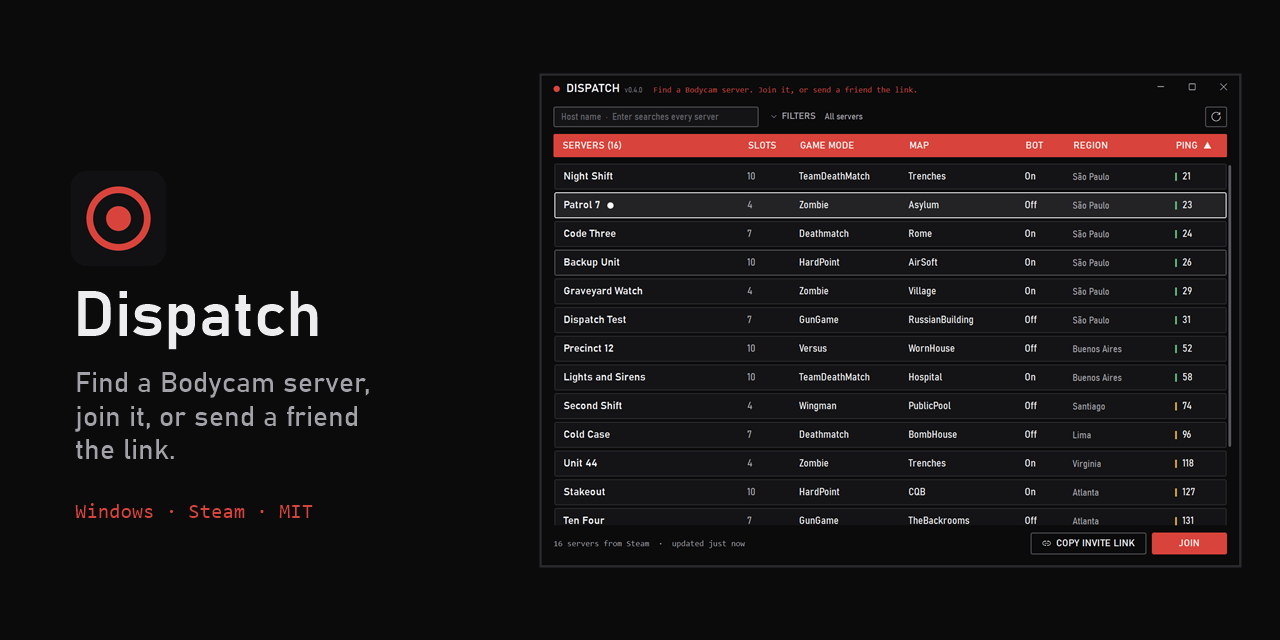
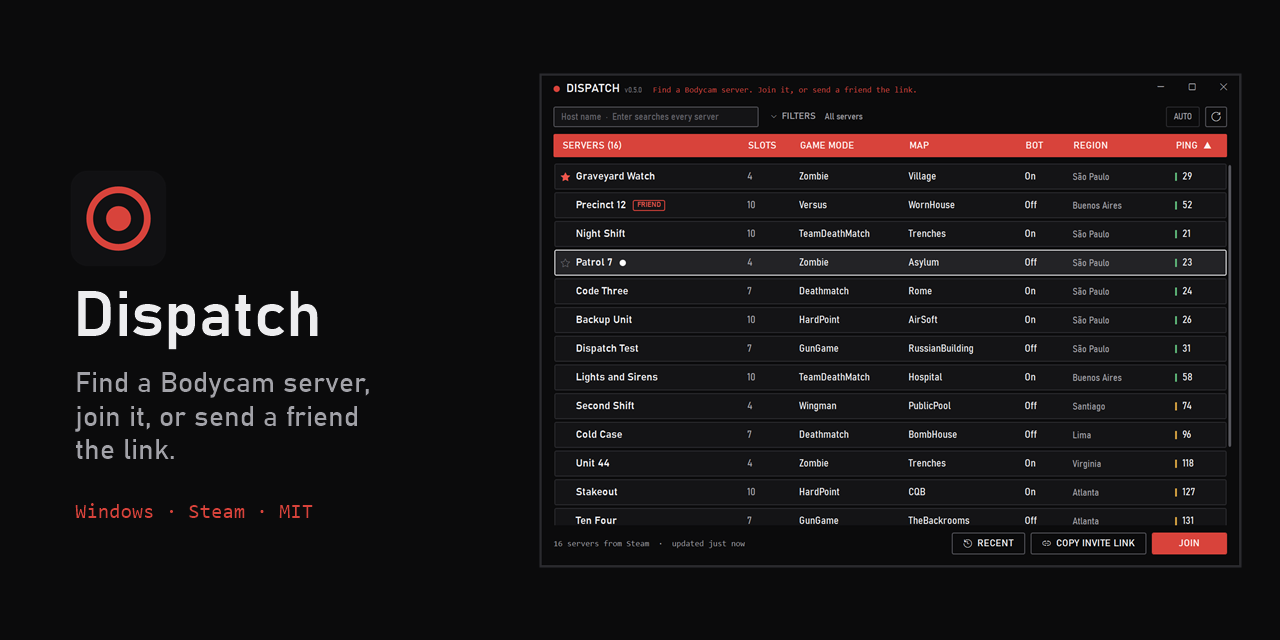
docs: refresh the README screenshot and social card for v0.5.0
The demo now includes an invented Steam friend and a followed host, so the screenshot shows the FRIEND badge, the follow star, AUTO and RECENT. The download note gives the size as under 150 KB.

diff --git a/src/Model/DemoData.cs b/src/Model/DemoData.cs
@@ -30,12 +30,25 @@ namespace Dispatch.Model
             ("Last Call", "Deathmatch", "WornHouse", "true", "lax", 7, 171),
         };
 
+        /// <summary>An invented Steam friend hosting one demo server, so screenshots show the FRIEND badge.</summary>
+        public static readonly IReadOnlyDictionary<string, string> Friends = new Dictionary<string, string>
+        {
+            [OwnerOf(6)] = "Sam",
+        };
+
+        /// <summary>A demo host shown as followed.</summary>
+        public static readonly string FollowedOwner = OwnerOf(4);
+
+        public static string FollowedName => Rows[4].Name;
+
+        private static string OwnerOf(int row) => (200000000000UL + (ulong)row).ToString(System.Globalization.CultureInfo.InvariantCulture);
+
         public static List<Server> For(LobbyQuery query, DateTime nowUtc)
         {
             var servers = Rows.Select((r, i) => new Server
             {
                 Id = (100000000000000000UL + (ulong)i).ToString(System.Globalization.CultureInfo.InvariantCulture),
-                Owner = (200000000000UL + (ulong)i).ToString(System.Globalization.CultureInfo.InvariantCulture),
+                Owner = OwnerOf(i),
                 Name = r.Name,
                 Mode = r.Mode,
                 Map = r.Map,

diff --git a/src/MainWindow.xaml.cs b/src/MainWindow.xaml.cs
@@ -995,7 +995,7 @@ namespace Dispatch
         private void Annotate()
         {
             var now = DateTime.UtcNow;
-            var friends = client.Friends;
+            var friends = demo ? DemoData.Friends : client.Friends;
             var all = browser.All();
             foreach (var s in all)
             {
@@ -1596,6 +1596,10 @@ namespace Dispatch
             }
 
             follows.Load(settings.GetRecords("followed"));
+            if (demo)
+            {
+                follows.Toggle(DemoData.FollowedOwner, DemoData.FollowedName);
+            }
             recent.Load(settings.GetRecords("recent"));
             autoRefresh = settings.Get("autoRefresh") == "1";
             quiet = true;

diff --git a/README.md b/README.md
@@ -12,7 +12,7 @@
 
 [![Download for Windows](https://img.shields.io/badge/Download%20for%20Windows-d8433b?style=for-the-badge)](https://github.com/skye-cp/dispatch/releases/latest/download/Dispatch.exe)
 
-<sub>One portable file, about 115 KB · <a href="https://github.com/skye-cp/dispatch/releases">All releases</a></sub>
+<sub>One portable file, under 150 KB · <a href="https://github.com/skye-cp/dispatch/releases">All releases</a></sub>
 
 <br>
 <br>
